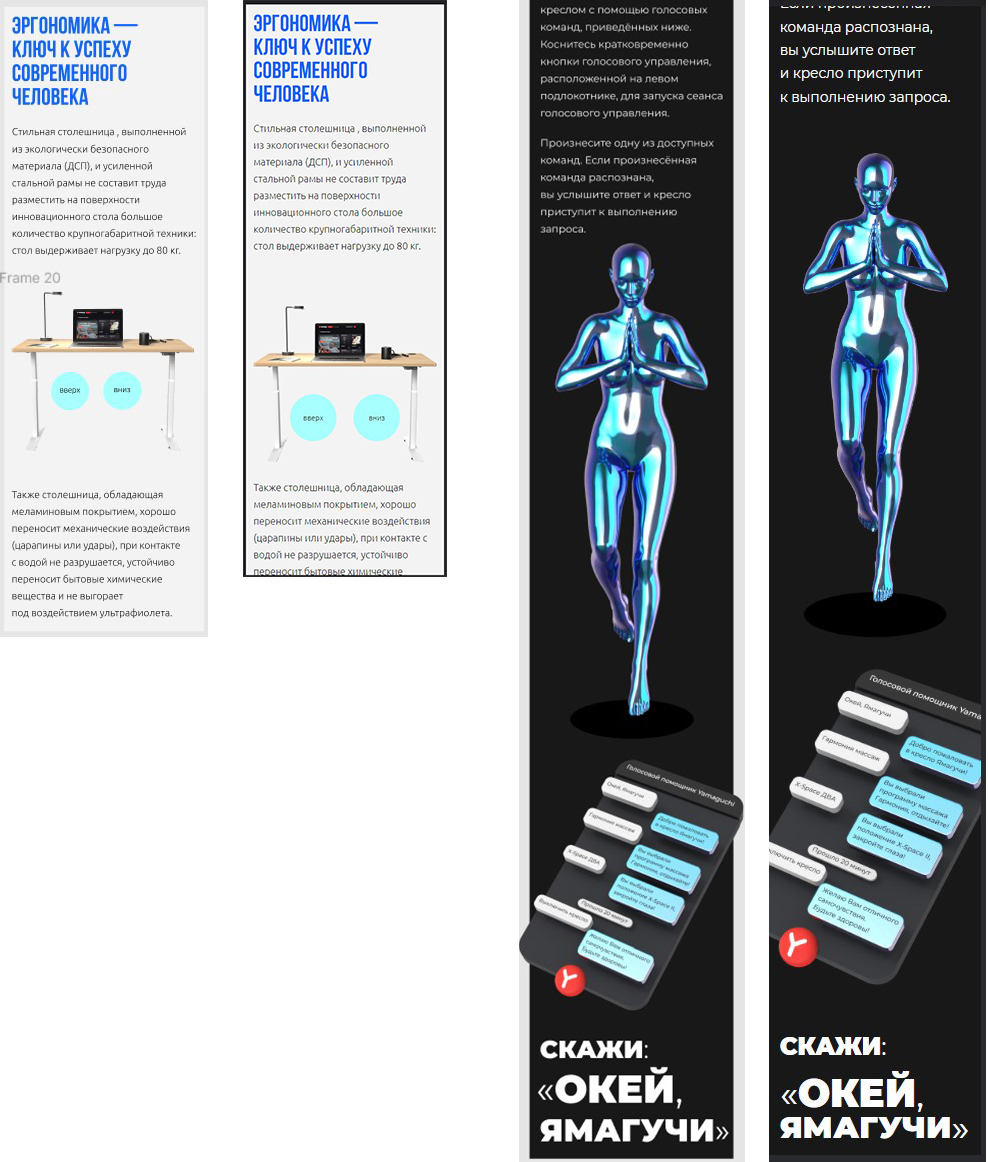
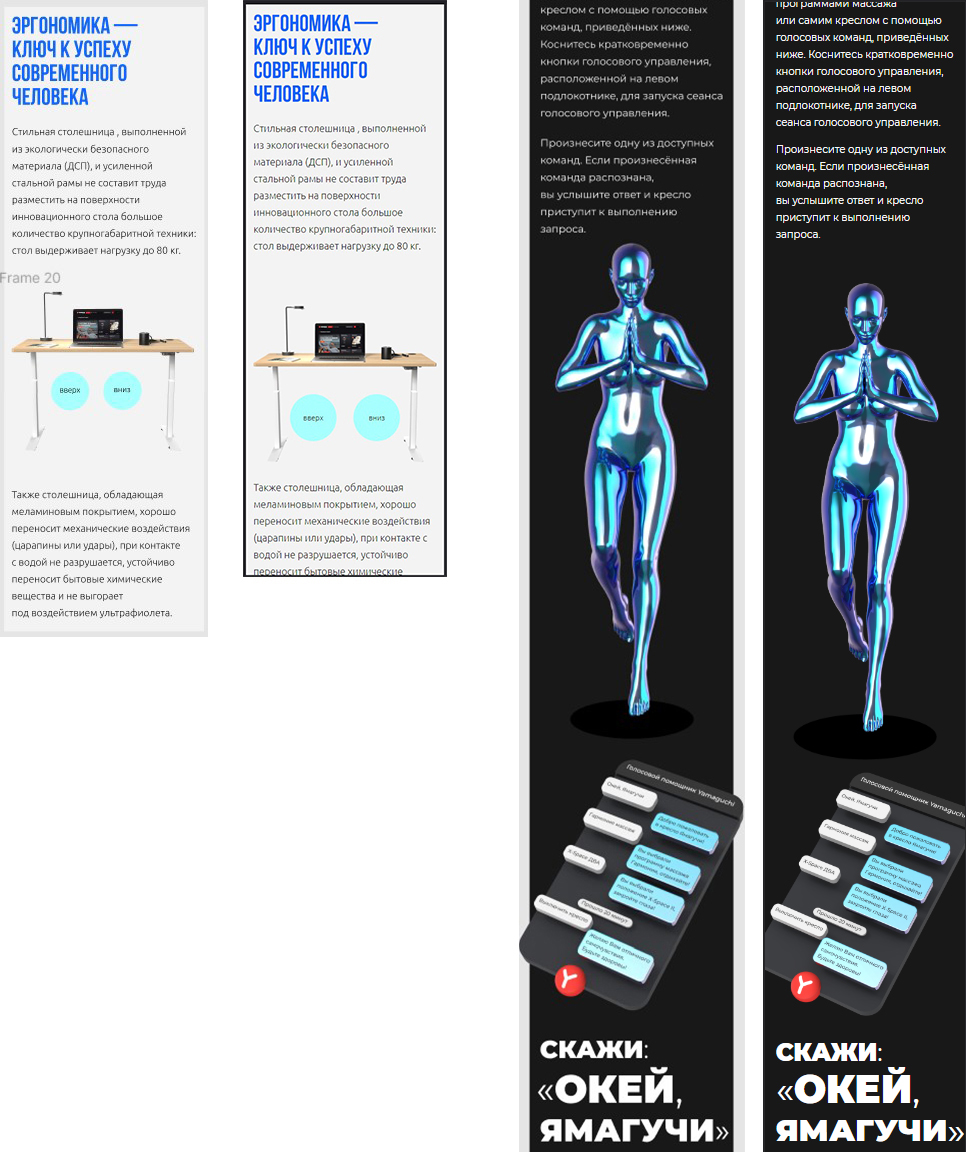
ReadMe Updated

diff --git a/css/style.min.css b/css/style.min.css
@@ -119,8 +119,6 @@ video {
 	margin: 0;
 	padding: 0;
 	border: 0;
-	font: inherit;
-	font-size: 100%;
 	vertical-align: baseline;
 }
 
@@ -347,7 +345,7 @@ textarea {
 	margin-bottom: 22px;
 }
 
-.vc__description .vc__description_text {
+.vc__description_text {
 	margin-bottom: 22px;
 	font-size: 22px;
 	line-height: 170%;
@@ -405,7 +403,7 @@ textarea {
 	width: 300px;
 	min-width: 300px;
 	height: 800px;
-	margin-top: 25px;
+	margin: 25px 80px 25px 150px;
 	overflow: hidden;
 }
 
@@ -509,12 +507,8 @@ textarea {
 .vc__img {
 	display: flex;
 	justify-content: center;
-	min-width: 800px;
+	min-width: 700px;
 	margin-left: -3%;
-}
-
-.vc__img img {
-	width: 120%;
 }
 
 body {
@@ -735,6 +729,10 @@ body {
 		margin-bottom: 0;
 	}
 
+	.vc__animation {
+		margin: 10px 0;
+	}
+
 	.vc__tag {
 		width: 100%;
 		margin-top: 30px;
@@ -748,7 +746,8 @@ body {
 		display: flex;
 		flex-wrap: wrap;
 		justify-content: flex-start;
-		margin-top: 30px;
+		margin-top: 15px;
+		margin-right: -6.5%;
 		font-size: 61.4163px;
 		font-weight: 900;
 		line-height: 90%;
@@ -756,6 +755,10 @@ body {
 
 	.vc__tag_text-400 {
 		font-weight: 400;
+	}
+
+	.vc__tag_text-400:last-child {
+		margin-top: 10px;
 	}
 
 	.vc__tag_text-400-small {
@@ -768,6 +771,7 @@ body {
 	}
 
 	.vc__tag_text-900-small {
+		margin-top: 10px;
 		font-size: 49.8561px;
 	}
 
@@ -781,9 +785,13 @@ body {
 	}
 
 	.vc__img {
-		width: 200%;
+		width: 100%;
 		min-width: 350px;
-		margin: 50px -12%;
+		margin: 10px -12%;
+	}
+
+	.vc__img img {
+		width: 100%;
 	}
 
 	.table__wrapper {

diff --git a/README.md b/README.md
@@ -13,6 +13,7 @@
 ![testYamaguchi](./TDSolution.gif)
 ![testYamaguchi](./VCDExample.jpg)
 ![testYamaguchi](./VCDSolution.gif)
+
 ## Mobile версии. 
 #### Помимо нечитаемых размеров картинок, внутри блоков текста использованы разные шрифты и их размеры.
 #### Без прав доступа я не мог их считать и подбирал по тем, что имеются. Не давайте, пожалуйста, такие макеты =(
